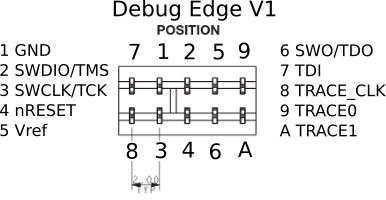
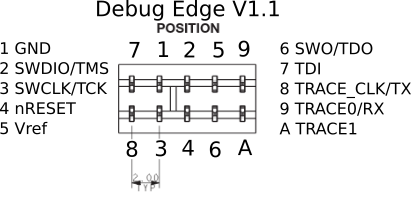
Give more pinout detail

Changed region(s): [[0.0, 0.2121, 1.0, 0.9697], [0.2176, 0.0, 0.715, 0.1818], [0.0, 0.5152, 0.2176, 0.697]]

diff --git a/index.md b/index.md
@@ -5,19 +5,73 @@
 layout: default
 ---
 
-Debug edge is an open standard for exposing debug signals such as SWD and JTAG
-on the edge of a 1.6mm printed circuit board (PCB).
+Debug edge is an open standard for exposing debug signals such as [Serial Wire Debug (SWD)](https://developer.arm.com/architectures/system-architectures/system-components/coresight/serial-wire-debug) and [Joint Test Action Group (JTAG)](https://en.wikipedia.org/wiki/JTAG) on the edge of a 1.6mm printed circuit board (PCB).
 
 It uses low cost board-to-board connectors to that no part is needed on the
 target PCB. This minimizes cost for everyone but ensures easy debug access when
 desired.
 
+# Overview
+
+The debug edge spec support four variants, from a stripped down 4 pin version that has an edge footprint of 4mm x 4.5mm to a full 10 pin version that is 10mm x 4.5mm. The variants use a compatible pinout and simply add functionality with additional pins.
+
+The diagram below demonstrates the pin assignment. Note that the pin numbering does *NOT* match the connector numbering because the connectors are renumbered by the manufacturer.
+
 ![Illustration of pinout](/assets/debug-edge.png)
 
-# 4-pin - SWD, bring your own power
+# 4-pin
+## SWD, bring your own power
 
-# 6-pin - SWD with power and SWO
+The core 4 pins feature the SWD pins used to control the target:
+* SWDIO - Bidirectional data signal.
+* SWCLK - Host -> Target clock signal.
 
-# 8-pin - SWD and JTAG!
+It also includes shared signals:
+* GND - Reference ground for the signals.
+* nReset - Resets the target when set to ground.
 
-# 10-pin - SWD, SWD Trace and JTAG
+SWD will not work with these four signals alone. It also needs a Vcc voltage reference, typically 3.3v or 5v, it is used for the high value in the signal lines. The Debug Edge host connector has a pin header to connect the Vref separately. We assume that the voltage reference is most likely to be broken out separately and is accessible, hence the subtitle, "bring your own power".
+
+The core 4-pin layout is designed to ground nReset when the Host and Target are flipped upside down. It is assumed that the target will high-z the remaining pins when in reset.
+
+Host to host or target to target connections may cause trouble by grounding SWDIO.
+
+# 6-pin
+## SWD with power and SWO
+
+The 6-pin layout adds two additional pins:
+* Vref - The high signal voltage, typically 3.3v or 5v
+* SWO - Serial Wire Output, can be used for printf output
+
+The 6-pin connector is the smallest self-contained SWD connection. It is the best footprint to use on small ARM boards.
+
+# 8-pin
+## SWD and JTAG!
+
+The 8-pin layout adds two additional pins, one completes the JTAG pinout and the other begins to add SWD trace support and UART output. It is the best footprint to use on small boards that require JTAG.
+
+The JTAG pinout is:
+
+* TMS
+* TCK
+* TDO
+* TDI
+
+This variant also adds UART TX, which is output from the target to the host. Make sure your host supports it.
+
+# 10-pin
+## SWD, SWD Trace and JTAG
+
+The 10-pin layout includes all of the bells and whistles. It is self contained and can do SWD or JTAG with a UART connection or 2-bit SWD trace.
+
+This is the footprint to use on most hosts!
+
+# Links
+
+[GitHub](https://github.com/debug-edge/)
+[Website](https://debug-edge.io/)
+[Connector Datasheet](http://datasheets.avx.com/OpenEndedCard%20Edge_00-9159.pdf)
+[Original Twitter Thread](https://twitter.com/_nitz/status/1299066513132072973)
+
+# Thanks
+Thanks to [@tachiniererin](https://twitter.com/tachiniererin) for the inspiration. Thanks to [@GregDavill](https://twitter.com/GregDavill) for suggesting the connector. Thanks to [@_nitz](https://twitter.com/_nitz) and [@tannewt](https://twitter.com/tannewt) for fleshing out the design and associated assets. Thanks to [@k0dSE](https://twitter.com/k0dSE) for fixing the website and suggesting UART.
